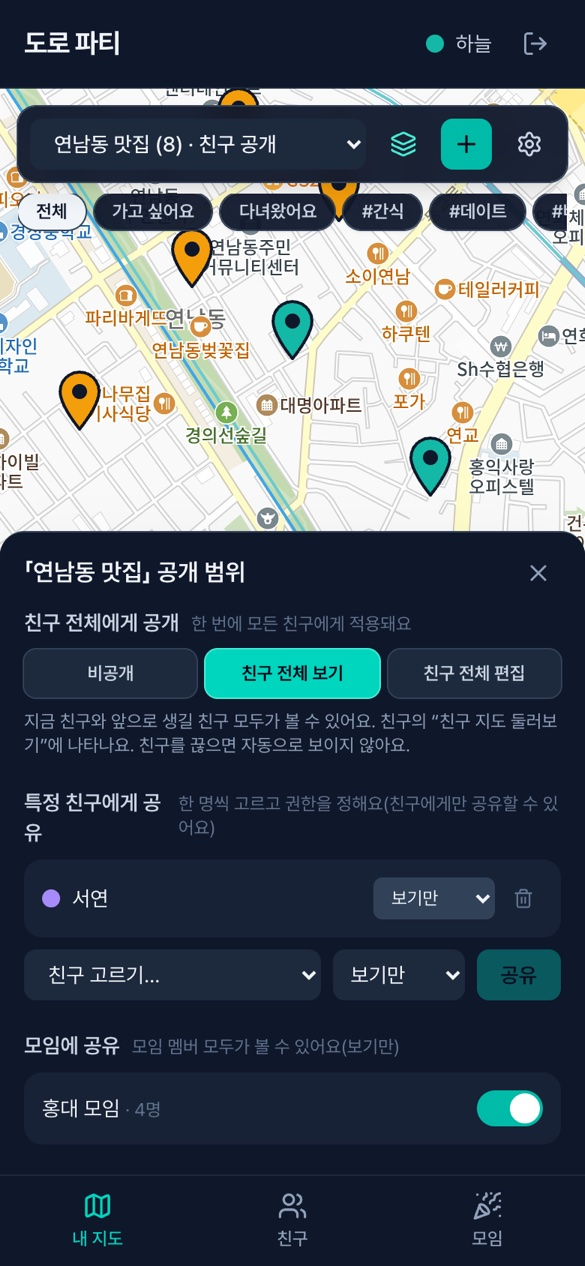
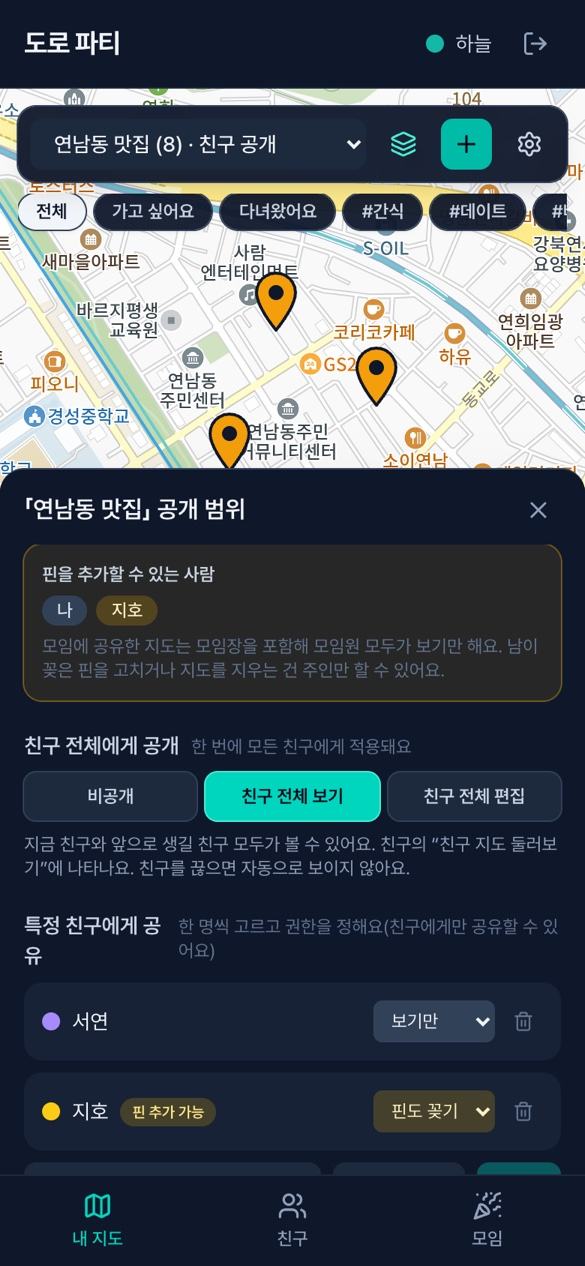
feat: 지도 공개 범위 시트에 "핀을 추가할 수 있는 사람" 요약과 편집 권한 표시·경고 추가
- 직접 "핀도 꽂기"를 준 친구와 친구 전체 편집 공개를 한눈에 보여 주고, 모임 공유는 보기만임을 안내
- 편집 권한을 받은 친구의 줄에 "핀 추가 가능" 표시, 추가 폼에서 "핀도 꽂기"를 고르면 경고
- README 의 공개 범위 스크린샷 갱신

diff --git a/web/src/components/MapShareSheet.tsx b/web/src/components/MapShareSheet.tsx
@@ -5,6 +5,7 @@ import * as socialApi from '../api/socialApi';
 import type { FriendAccess, PartyMap, ShareRole } from '../api/types';
 import { useResource } from '../hooks/useResource';
 import { useMapStore } from '../store/mapStore';
+import { editorLabels, hasOtherEditors, summarizeEditors } from '../utils/editorSummary';
 import Section from './Section';
 import Sheet from './Sheet';
 import UserDot from './UserDot';
@@ -70,11 +71,23 @@ export default function MapShareSheet({ map, onClose }: Props) {
     );
   };
   const currentAccess = ACCESS_OPTIONS.find((option) => option.value === map.friendAccess) ?? ACCESS_OPTIONS[0];
+  const editors = summarizeEditors(shares.data ?? [], map.friendAccess);
+  const othersCanEdit = hasOtherEditors(editors);
 
   return (
     <Sheet title={`「${map.name}」 공개 범위`} onClose={onClose}>
       <div className="flex flex-col gap-5">
         {error && <p role="alert" className="rounded-lg bg-rose-500/15 px-3 py-2 text-sm text-rose-200">{error}</p>}
+
+        <div role="note" aria-label="핀을 추가할 수 있는 사람" className={`flex flex-col gap-1.5 rounded-xl p-3 ring-1 ${othersCanEdit ? 'bg-amber-400/10 ring-amber-400/40' : 'bg-slate-800/60 ring-slate-700'}`}>
+          <p className="text-xs font-semibold text-slate-300">핀을 추가할 수 있는 사람</p>
+          <ul className="flex flex-wrap gap-1.5">
+            {editorLabels(editors).map((label) => (
+              <li key={label} className={`rounded-full px-2.5 py-0.5 text-xs font-medium ${label === '나' ? 'bg-slate-700 text-slate-200' : 'bg-amber-400/20 text-amber-100'}`}>{label}</li>
+            ))}
+          </ul>
+          <p className="text-xs text-slate-500">모임에 공유한 지도는 모임장을 포함해 모임원 모두가 보기만 해요. 남이 꽂은 핀을 고치거나 지도를 지우는 건 주인만 할 수 있어요.</p>
+        </div>
 
         <Section title="친구 전체에게 공개" hint="한 번에 모든 친구에게 적용돼요">
           <div role="radiogroup" aria-label="친구 전체 공개 범위" className="grid grid-cols-3 gap-1.5">
@@ -104,14 +117,17 @@ export default function MapShareSheet({ map, onClose }: Props) {
             <ul className="flex flex-col gap-2">
               {(shares.data ?? []).map((share) => (
                 <li key={share.user.id} className="flex items-center justify-between gap-2 rounded-xl bg-slate-800/60 p-3">
-                  <UserDot nickname={share.user.nickname} color={share.user.color} />
+                  <span className="flex min-w-0 items-center gap-2">
+                    <UserDot nickname={share.user.nickname} color={share.user.color} />
+                    {share.role === 'EDITOR' && <span className="shrink-0 rounded-full bg-amber-400/20 px-2 py-0.5 text-[10px] font-semibold text-amber-200">핀 추가 가능</span>}
+                  </span>
                   <span className="flex shrink-0 items-center gap-1.5">
                     <select
                       aria-label={`${share.user.nickname}님의 권한`}
                       value={share.role}
                       disabled={busy}
                       onChange={(event) => void run(() => socialApi.shareMap(map.id, share.user.id, event.target.value as ShareRole), '권한을 바꾸지 못했어요.', shares.reload)}
-                      className="rounded-md bg-slate-700 px-2 py-1.5 text-xs text-slate-100 outline-none"
+                      className={`rounded-md px-2 py-1.5 text-xs outline-none ${share.role === 'EDITOR' ? 'bg-amber-400/20 text-amber-100' : 'bg-slate-700 text-slate-100'}`}
                     >
                       {ROLE_OPTIONS.map((option) => <option key={option.value} value={option.value}>{option.label}</option>)}
                     </select>
@@ -123,19 +139,24 @@ export default function MapShareSheet({ map, onClose }: Props) {
             </ul>
           )}
           {candidates.length > 0 ? (
-            <div className="flex gap-2">
-              <label htmlFor="share-friend" className="sr-only">공유할 친구</label>
-              <select id="share-friend" value={friendId} onChange={(event) => setFriendId(event.target.value)} className="min-w-0 flex-1 rounded-lg bg-slate-800 px-3 py-2 text-sm text-slate-100 outline-none">
-                <option value="">친구 고르기…</option>
-                {candidates.map((friend) => <option key={friend.user.id} value={friend.user.id}>{friend.user.nickname}</option>)}
-              </select>
-              <label htmlFor="share-role" className="sr-only">권한</label>
-              <select id="share-role" value={role} onChange={(event) => setRole(event.target.value as ShareRole)} className="rounded-lg bg-slate-800 px-2 text-sm text-slate-100 outline-none">
-                {ROLE_OPTIONS.map((option) => <option key={option.value} value={option.value}>{option.label}</option>)}
-              </select>
-              <button type="button" disabled={busy || friendId === ''} onClick={() => void run(() => socialApi.shareMap(map.id, friendId, role), '공유하지 못했어요.', () => { setFriendId(''); shares.reload(); })}
-                className="rounded-lg bg-teal-500 px-4 text-sm font-semibold text-slate-950 hover:bg-teal-400 disabled:opacity-40">공유</button>
-            </div>
+            <>
+              <div className="flex gap-2">
+                <label htmlFor="share-friend" className="sr-only">공유할 친구</label>
+                <select id="share-friend" value={friendId} onChange={(event) => setFriendId(event.target.value)} className="min-w-0 flex-1 rounded-lg bg-slate-800 px-3 py-2 text-sm text-slate-100 outline-none">
+                  <option value="">친구 고르기…</option>
+                  {candidates.map((friend) => <option key={friend.user.id} value={friend.user.id}>{friend.user.nickname}</option>)}
+                </select>
+                <label htmlFor="share-role" className="sr-only">권한</label>
+                <select id="share-role" value={role} onChange={(event) => setRole(event.target.value as ShareRole)} className="rounded-lg bg-slate-800 px-2 text-sm text-slate-100 outline-none">
+                  {ROLE_OPTIONS.map((option) => <option key={option.value} value={option.value}>{option.label}</option>)}
+                </select>
+                <button type="button" disabled={busy || friendId === ''} onClick={() => void run(() => socialApi.shareMap(map.id, friendId, role), '공유하지 못했어요.', () => { setFriendId(''); shares.reload(); })}
+                  className="rounded-lg bg-teal-500 px-4 text-sm font-semibold text-slate-950 hover:bg-teal-400 disabled:opacity-40">공유</button>
+              </div>
+              {role === 'EDITOR' && (
+                <p role="note" className="text-xs text-amber-300">“핀도 꽂기”를 고르면 선택한 친구가 이 지도에 핀을 추가할 수 있어요. 남이 꽂은 핀을 고치거나 지도를 지우는 건 할 수 없어요.</p>
+              )}
+            </>
           ) : (
             <p className="text-xs text-slate-500">{(friends.data?.friends ?? []).length === 0 ? '친구 탭에서 먼저 친구를 초대해 보세요.' : '모든 친구에게 이미 공유했어요.'}</p>
           )}

diff --git a/web/src/components/MapShareSheet.test.tsx b/web/src/components/MapShareSheet.test.tsx
@@ -4,7 +4,7 @@ import { act } from 'react';
 import { afterEach, beforeEach, describe, expect, it, vi } from 'vitest';
 import * as mapsApi from '../api/mapsApi';
 import * as socialApi from '../api/socialApi';
-import type { FriendAccess, PartyMap } from '../api/types';
+import type { FriendAccess, PartyMap, ShareView } from '../api/types';
 import { useMapStore } from '../store/mapStore';
 import MapShareSheet from './MapShareSheet';
 
@@ -115,5 +115,59 @@ describe('MapShareSheet: 친구 전체에게 공개', () => {
     expect(container.querySelector('[role="alert"]')?.textContent).toBe('권한이 없어요');
     expect(checkedLabel()).toBe('비공개');
     expect(useMapStore.getState().maps[0].friendAccess).toBe('NONE');
+  });
+});
+
+describe('MapShareSheet: 핀을 추가할 수 있는 사람', () => {
+  const person = (id: string, nickname: string) => ({ id, username: id, nickname, color: '#A78BFA' });
+  const shareOf = (id: string, nickname: string, role: ShareView['role']): ShareView => ({ user: person(id, nickname), role, sharedAt: '' });
+  const note = () => container.querySelector('[role="note"][aria-label="핀을 추가할 수 있는 사람"]') as HTMLElement;
+  const noteNames = () => Array.from(note().querySelectorAll('li')).map((item) => item.textContent);
+
+  it('아무에게도 편집 권한을 주지 않았으면 나만 나오고, 모임은 보기만 한다고 알려 준다', async () => {
+    useMapStore.setState({ maps: [myMap('NONE')] });
+    social.listShares.mockResolvedValue([shareOf('f1', '민준', 'VIEWER')]);
+    await render();
+    expect(noteNames()).toEqual(['나']);
+    expect(note().textContent).toContain('모임장을 포함해 모임원 모두가 보기만 해요');
+  });
+
+  it('직접 편집 권한을 준 친구와 친구 전체 편집 공개를 모두 보여 준다(보기만 받은 친구는 뺀다)', async () => {
+    useMapStore.setState({ maps: [myMap('EDITOR')] });
+    social.listShares.mockResolvedValue([shareOf('f1', '서연', 'EDITOR'), shareOf('f2', '민준', 'VIEWER'), shareOf('f3', '지호', 'EDITOR')]);
+    await render();
+    expect(noteNames()).toEqual(['나', '서연', '지호', '내 친구 전체']);
+  });
+
+  it('편집 권한을 받은 친구의 줄에는 "핀 추가 가능" 표시가 붙고, 보기만 받은 친구에는 붙지 않는다', async () => {
+    useMapStore.setState({ maps: [myMap('NONE')] });
+    social.listShares.mockResolvedValue([shareOf('f1', '서연', 'EDITOR'), shareOf('f2', '민준', 'VIEWER')]);
+    await render();
+    const rows = Array.from(container.querySelectorAll('ul li')).filter((row) => row.querySelector('select'));
+    expect(rows).toHaveLength(2);
+    expect(rows[0].textContent).toContain('핀 추가 가능');
+    expect(rows[1].textContent).not.toContain('핀 추가 가능');
+  });
+
+  it('특정 친구에게 "핀도 꽂기"를 고르면 경고가 나오고, "보기만"으로 돌리면 사라진다', async () => {
+    useMapStore.setState({ maps: [myMap('NONE')] });
+    social.getFriends.mockResolvedValue({ friends: [{ user: person('f1', '서연'), since: '' }], incoming: [], outgoing: [] });
+    await render();
+    const roleSelect = container.querySelector('#share-role') as HTMLSelectElement;
+    const warning = () => Array.from(container.querySelectorAll('[role="note"]')).find((el) => el.textContent?.includes('핀을 추가할 수 있어요. 남이 꽂은 핀'));
+    expect(roleSelect.value).toBe('VIEWER');
+    expect(warning()).toBeUndefined();
+
+    const choose = async (value: string) => {
+      await act(async () => {
+        const setter = Object.getOwnPropertyDescriptor(HTMLSelectElement.prototype, 'value')?.set;
+        setter?.call(roleSelect, value);
+        roleSelect.dispatchEvent(new Event('change', { bubbles: true }));
+      });
+    };
+    await choose('EDITOR');
+    expect(warning()?.textContent).toContain('지도를 지우는 건 할 수 없어요');
+    await choose('VIEWER');
+    expect(warning()).toBeUndefined();
   });
 });

diff --git a/web/src/utils/editorSummary.test.ts b/web/src/utils/editorSummary.test.ts
@@ -1,0 +1,39 @@
+import { describe, expect, it } from 'vitest';
+import type { ShareView } from '../api/types';
+import { editorLabels, hasOtherEditors, summarizeEditors } from './editorSummary';
+
+const share = (nickname: string, role: ShareView['role']): Pick<ShareView, 'role' | 'user'> => ({
+  role,
+  user: { id: nickname, username: nickname, nickname, color: '#fff' },
+});
+
+describe('summarizeEditors', () => {
+  it('직접 편집 권한을 받은 친구만 모으고 이름순으로 정렬한다(보기만 받은 친구는 뺀다)', () => {
+    const summary = summarizeEditors([share('지호', 'EDITOR'), share('민준', 'VIEWER'), share('서연', 'EDITOR')], 'NONE');
+    expect(summary).toEqual({ names: ['서연', '지호'], everyFriend: false });
+  });
+
+  it('친구 전체 편집 공개는 별도로 표시하고, 보기 공개는 편집이 아니다', () => {
+    expect(summarizeEditors([], 'EDITOR').everyFriend).toBe(true);
+    expect(summarizeEditors([], 'VIEWER').everyFriend).toBe(false);
+    expect(summarizeEditors([], 'NONE').everyFriend).toBe(false);
+  });
+});
+
+describe('hasOtherEditors / editorLabels', () => {
+  it('아무도 없으면 나만', () => {
+    const summary = summarizeEditors([share('민준', 'VIEWER')], 'VIEWER');
+    expect(hasOtherEditors(summary)).toBe(false);
+    expect(editorLabels(summary)).toEqual(['나']);
+  });
+
+  it('직접 편집 권한자와 친구 전체 편집을 함께 보여 준다', () => {
+    const summary = summarizeEditors([share('서연', 'EDITOR')], 'EDITOR');
+    expect(hasOtherEditors(summary)).toBe(true);
+    expect(editorLabels(summary)).toEqual(['나', '서연', '내 친구 전체']);
+  });
+
+  it('직접 권한자만 있어도 다른 편집자가 있는 것이다', () => {
+    expect(hasOtherEditors(summarizeEditors([share('서연', 'EDITOR')], 'NONE'))).toBe(true);
+  });
+});

diff --git a/web/src/utils/editorSummary.ts b/web/src/utils/editorSummary.ts
@@ -1,0 +1,27 @@
+import type { FriendAccess, ShareView } from '../api/types';
+
+export interface EditorSummary {
+  /** 직접 "핀도 꽂기"를 받은 친구들의 닉네임(이름순) */
+  names: string[];
+  /** 친구 전체에게 편집으로 공개했는지 */
+  everyFriend: boolean;
+}
+
+/** 이 지도에 핀을 추가할 수 있는 사람(주인 제외): 직접 편집 권한을 준 친구와, 친구 전체 편집 공개. 모임 공유는 보기만이라 포함되지 않는다. */
+export function summarizeEditors(shares: ReadonlyArray<Pick<ShareView, 'role' | 'user'>>, friendAccess: FriendAccess): EditorSummary {
+  const names = shares
+    .filter((share) => share.role === 'EDITOR')
+    .map((share) => share.user.nickname)
+    .sort((a, b) => a.localeCompare(b, 'ko'));
+  return { names, everyFriend: friendAccess === 'EDITOR' };
+}
+
+/** 주인 말고도 핀을 추가할 수 있는 사람이 있는지 */
+export function hasOtherEditors(summary: EditorSummary): boolean {
+  return summary.everyFriend || summary.names.length > 0;
+}
+
+/** 화면에 늘어놓을 이름들: 나(주인), 직접 편집 권한을 받은 친구들, 친구 전체 편집이면 "내 친구 전체". */
+export function editorLabels(summary: EditorSummary): string[] {
+  return ['나', ...summary.names, ...(summary.everyFriend ? ['내 친구 전체'] : [])];
+}
